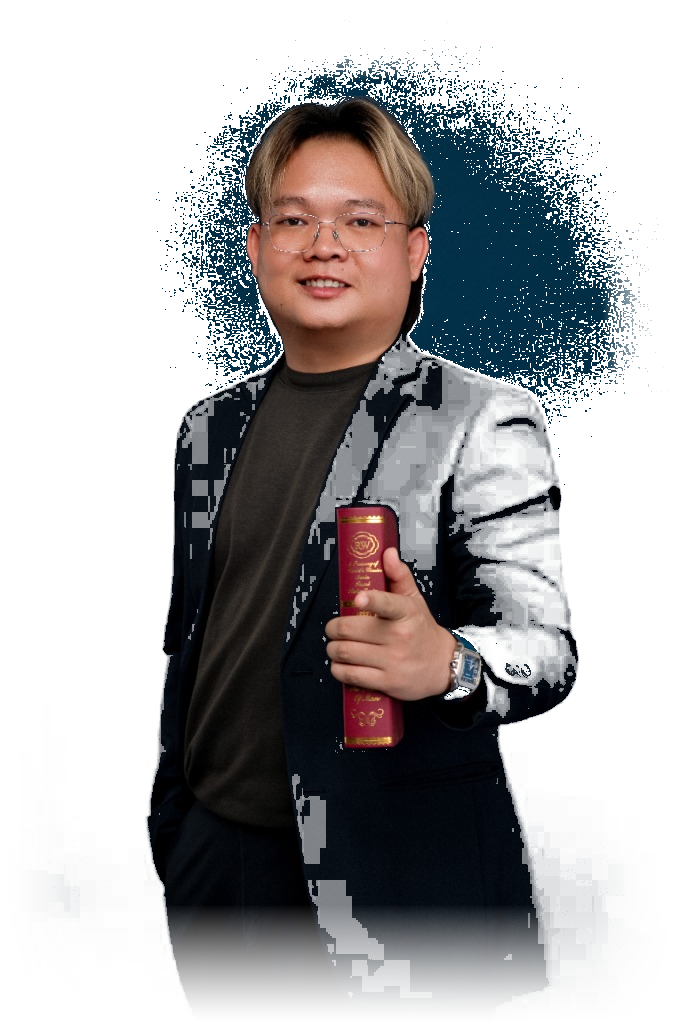
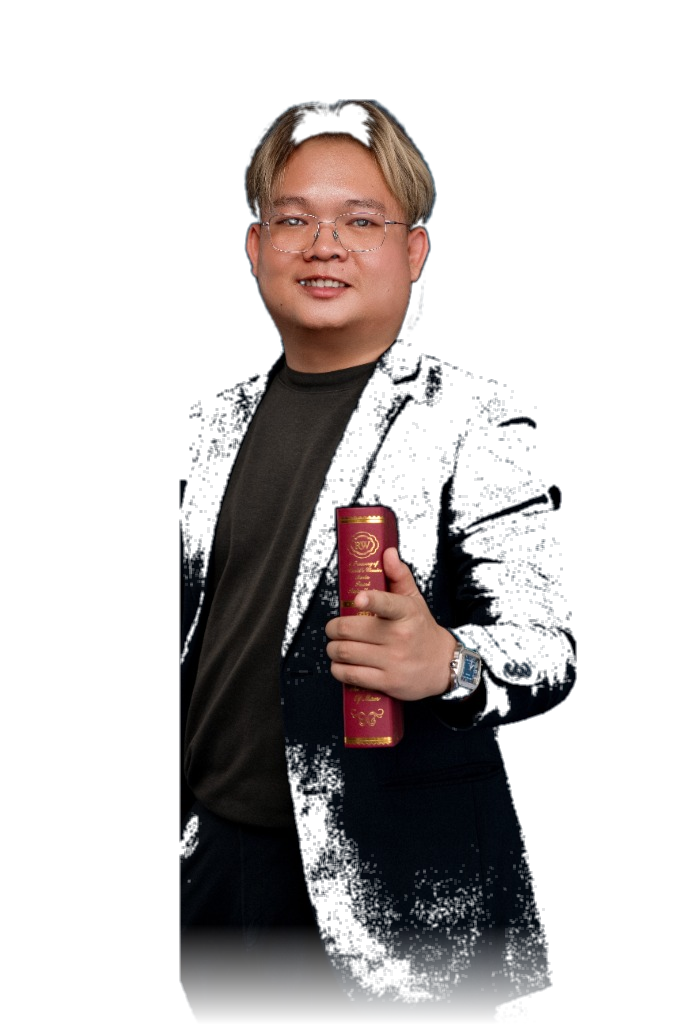
fix(hero): eliminate blue stippled spray halo artifact and enforce non-breaking whitespace on Gold Hedging nav item

Changed region(s): [[0.2155, 0.0625, 0.9545, 1.0], [0.6466, 0.6562, 0.6774, 0.6875]]

diff --git a/index.html b/index.html
@@ -109,7 +109,7 @@
           <li><a href="#brokers" class="nav-link" data-i18n="nav.brokers">Brokers</a></li>
           <li><a href="#courses" class="nav-link" data-i18n="nav.courses">Courses</a></li>
           <li><a href="smc-genesis" class="nav-link nav-link-genesis" data-i18n="nav.genesis"><span class="genesis-pulse-dot"></span>SMC Genesis <span class="nav-new-badge">NEW</span></a></li>
-          <li><a href="gold-hedging" class="nav-link" data-i18n="nav.hedging"><span class="nav-label-full">Gold </span>Hedging</a></li>
+          <li><a href="gold-hedging" class="nav-link" data-i18n="nav.hedging"><span class="nav-label-full">Gold</span>&nbsp;Hedging</a></li>
           <li><a href="#capital" class="nav-link" data-i18n="nav.capital">Strategy</a></li>
           <li><a href="#calculator" class="nav-link" data-i18n="nav.calculator">Calculator</a></li>
           <li><a href="#knowledge" class="nav-link" data-i18n="nav.knowledge">Knowledge</a></li>
@@ -256,7 +256,7 @@
 
           <!-- Hero Portrait: Real BlueX Photo (Feathered & Seamless Blend) -->
           <div class="hero-portrait-stage">
-            <img src="./assets/images/bluex-hero-portrait.png?v=20261104v3" alt="BlueX - Co-Founder SAGFX and Elite Trading Mentor" class="hero-portrait-img" width="682" height="1024" fetchpriority="high" decoding="async">
+            <img src="./assets/images/bluex-hero-portrait.png?v=20261104v4" alt="BlueX - Co-Founder SAGFX and Elite Trading Mentor" class="hero-portrait-img" width="682" height="1024" fetchpriority="high" decoding="async">
           </div>
 
           <!-- Hero Bottom Row -->

diff --git a/styles.css b/styles.css
@@ -754,9 +754,9 @@ button {
   height: 100%;
   object-fit: contain;
   object-position: bottom right;
-  filter: drop-shadow(0 15px 35px rgba(0, 0, 0, 0.6));
-  mask-image: radial-gradient(ellipse 85% 90% at 55% 55%, black 65%, rgba(0, 0, 0, 0.7) 82%, transparent 100%);
-  -webkit-mask-image: radial-gradient(ellipse 85% 90% at 55% 55%, black 65%, rgba(0, 0, 0, 0.7) 82%, transparent 100%);
+  filter: drop-shadow(0 18px 40px rgba(0, 0, 0, 0.85));
+  mask-image: linear-gradient(to bottom, black 86%, transparent 100%);
+  -webkit-mask-image: linear-gradient(to bottom, black 86%, transparent 100%);
   transition: transform 0.4s ease, filter 0.4s ease;
 }
 
@@ -3929,8 +3929,8 @@ html.menu-open #floatingEnrollBtn {
 
   .hero-portrait-img {
     object-position: bottom center;
-    mask-image: radial-gradient(ellipse 90% 90% at 50% 50%, black 65%, rgba(0, 0, 0, 0.7) 82%, transparent 100%);
-    -webkit-mask-image: radial-gradient(ellipse 90% 90% at 50% 50%, black 65%, rgba(0, 0, 0, 0.7) 82%, transparent 100%);
+    mask-image: linear-gradient(to bottom, black 86%, transparent 100%);
+    -webkit-mask-image: linear-gradient(to bottom, black 86%, transparent 100%);
   }
   
   .hero-bottom-row {

diff --git a/gold-hedging.html b/gold-hedging.html
@@ -114,7 +114,7 @@
           <li><a href="./#brokers" class="nav-link" data-i18n="nav.brokers">Brokers</a></li>
           <li><a href="./#courses" class="nav-link" data-i18n="nav.courses">Courses</a></li>
           <li><a href="smc-genesis" class="nav-link nav-link-genesis" data-i18n="nav.genesis"><span class="genesis-pulse-dot"></span>SMC Genesis <span class="nav-new-badge">NEW</span></a></li>
-          <li><a href="gold-hedging" class="nav-link active" data-i18n="nav.hedging"><span class="nav-label-full">Gold </span>Hedging</a></li>
+          <li><a href="gold-hedging" class="nav-link active" data-i18n="nav.hedging"><span class="nav-label-full">Gold</span>&nbsp;Hedging</a></li>
           <li><a href="./#capital" class="nav-link" data-i18n="nav.capital">Strategy</a></li>
           <li><a href="#calculator" class="nav-link" data-i18n="nav.calculator">Calculator</a></li>
           <li><a href="knowledge" class="nav-link" data-i18n="nav.knowledge">Knowledge</a></li>

diff --git a/gold-hedging/index.html b/gold-hedging/index.html
@@ -114,7 +114,7 @@
           <li><a href="./#brokers" class="nav-link" data-i18n="nav.brokers">Brokers</a></li>
           <li><a href="./#courses" class="nav-link" data-i18n="nav.courses">Courses</a></li>
           <li><a href="smc-genesis" class="nav-link nav-link-genesis" data-i18n="nav.genesis"><span class="genesis-pulse-dot"></span>SMC Genesis <span class="nav-new-badge">NEW</span></a></li>
-          <li><a href="gold-hedging" class="nav-link active" data-i18n="nav.hedging"><span class="nav-label-full">Gold </span>Hedging</a></li>
+          <li><a href="gold-hedging" class="nav-link active" data-i18n="nav.hedging"><span class="nav-label-full">Gold</span>&nbsp;Hedging</a></li>
           <li><a href="./#capital" class="nav-link" data-i18n="nav.capital">Strategy</a></li>
           <li><a href="#calculator" class="nav-link" data-i18n="nav.calculator">Calculator</a></li>
           <li><a href="knowledge" class="nav-link" data-i18n="nav.knowledge">Knowledge</a></li>

diff --git a/knowledge.html b/knowledge.html
@@ -191,7 +191,7 @@
           <li><a href="./#brokers" class="nav-link" data-i18n="nav.brokers">Brokers</a></li>
           <li><a href="./#courses" class="nav-link" data-i18n="nav.courses">Courses</a></li>
           <li><a href="smc-genesis" class="nav-link nav-link-genesis" data-i18n="nav.genesis"><span class="genesis-pulse-dot"></span>SMC Genesis <span class="nav-new-badge">NEW</span></a></li>
-          <li><a href="gold-hedging" class="nav-link" data-i18n="nav.hedging"><span class="nav-label-full">Gold </span>Hedging</a></li>
+          <li><a href="gold-hedging" class="nav-link" data-i18n="nav.hedging"><span class="nav-label-full">Gold</span>&nbsp;Hedging</a></li>
           <li><a href="./#capital" class="nav-link" data-i18n="nav.capital">Strategy</a></li>
           <li><a href="./#calculator" class="nav-link" data-i18n="nav.calculator">Calculator</a></li>
           <li><a href="knowledge" class="nav-link active" data-i18n="nav.knowledge">Knowledge</a></li>

diff --git a/knowledge/index.html b/knowledge/index.html
@@ -191,7 +191,7 @@
           <li><a href="./#brokers" class="nav-link" data-i18n="nav.brokers">Brokers</a></li>
           <li><a href="./#courses" class="nav-link" data-i18n="nav.courses">Courses</a></li>
           <li><a href="smc-genesis" class="nav-link nav-link-genesis" data-i18n="nav.genesis"><span class="genesis-pulse-dot"></span>SMC Genesis <span class="nav-new-badge">NEW</span></a></li>
-          <li><a href="gold-hedging" class="nav-link" data-i18n="nav.hedging"><span class="nav-label-full">Gold </span>Hedging</a></li>
+          <li><a href="gold-hedging" class="nav-link" data-i18n="nav.hedging"><span class="nav-label-full">Gold</span>&nbsp;Hedging</a></li>
           <li><a href="./#capital" class="nav-link" data-i18n="nav.capital">Strategy</a></li>
           <li><a href="./#calculator" class="nav-link" data-i18n="nav.calculator">Calculator</a></li>
           <li><a href="knowledge" class="nav-link active" data-i18n="nav.knowledge">Knowledge</a></li>

diff --git a/smc-genesis.html b/smc-genesis.html
@@ -146,7 +146,7 @@
           <li><a href="./#brokers" class="nav-link" data-i18n="nav.brokers">Brokers</a></li>
           <li><a href="./#courses" class="nav-link" data-i18n="nav.courses">Courses</a></li>
           <li><a href="smc-genesis" class="nav-link active nav-link-genesis" data-i18n="nav.genesis"><span class="genesis-pulse-dot"></span>SMC Genesis <span class="nav-new-badge">NEW</span></a></li>
-          <li><a href="gold-hedging" class="nav-link" data-i18n="nav.hedging"><span class="nav-label-full">Gold </span>Hedging</a></li>
+          <li><a href="gold-hedging" class="nav-link" data-i18n="nav.hedging"><span class="nav-label-full">Gold</span>&nbsp;Hedging</a></li>
           <li><a href="./#capital" class="nav-link" data-i18n="nav.capital">Strategy</a></li>
           <li><a href="./#calculator" class="nav-link" data-i18n="nav.calculator">Calculator</a></li>
           <li><a href="knowledge" class="nav-link" data-i18n="nav.knowledge">Knowledge</a></li>

diff --git a/smc-genesis/index.html b/smc-genesis/index.html
@@ -146,7 +146,7 @@
           <li><a href="./#brokers" class="nav-link" data-i18n="nav.brokers">Brokers</a></li>
           <li><a href="./#courses" class="nav-link" data-i18n="nav.courses">Courses</a></li>
           <li><a href="smc-genesis" class="nav-link active nav-link-genesis" data-i18n="nav.genesis"><span class="genesis-pulse-dot"></span>SMC Genesis <span class="nav-new-badge">NEW</span></a></li>
-          <li><a href="gold-hedging" class="nav-link" data-i18n="nav.hedging"><span class="nav-label-full">Gold </span>Hedging</a></li>
+          <li><a href="gold-hedging" class="nav-link" data-i18n="nav.hedging"><span class="nav-label-full">Gold</span>&nbsp;Hedging</a></li>
           <li><a href="./#capital" class="nav-link" data-i18n="nav.capital">Strategy</a></li>
           <li><a href="./#calculator" class="nav-link" data-i18n="nav.calculator">Calculator</a></li>
           <li><a href="knowledge" class="nav-link" data-i18n="nav.knowledge">Knowledge</a></li>

diff --git a/script.js b/script.js
@@ -1,4 +1,4 @@
-// ========================================================
+// ========================================================
 // BlueX Portfolio & Trading Ecosystem - Core Engine
 // Features:
 // 1. Navigation & Smooth Scroll
@@ -481,7 +481,7 @@ document.addEventListener('DOMContentLoaded', () => {
       'nav.brokers': 'Brokers',
       'nav.courses': 'Courses',
       'nav.genesis': '<span class="genesis-pulse-dot"></span> SMC Genesis <span class="nav-new-badge">NEW</span>',
-      'nav.hedging': '<span class="nav-label-full">Gold </span>Hedging',
+      'nav.hedging': '<span class="nav-label-full">Gold</span>&nbsp;Hedging',
       'nav.drawerBrand': 'BLUEX TERMINAL',
       'nav.spotlightDesc': 'Institutional Blueprint: 10 Quantitative Modules',
       'nav.drawerDm': 'Register Now â€” Direct DM (@Le_Bluue)',
